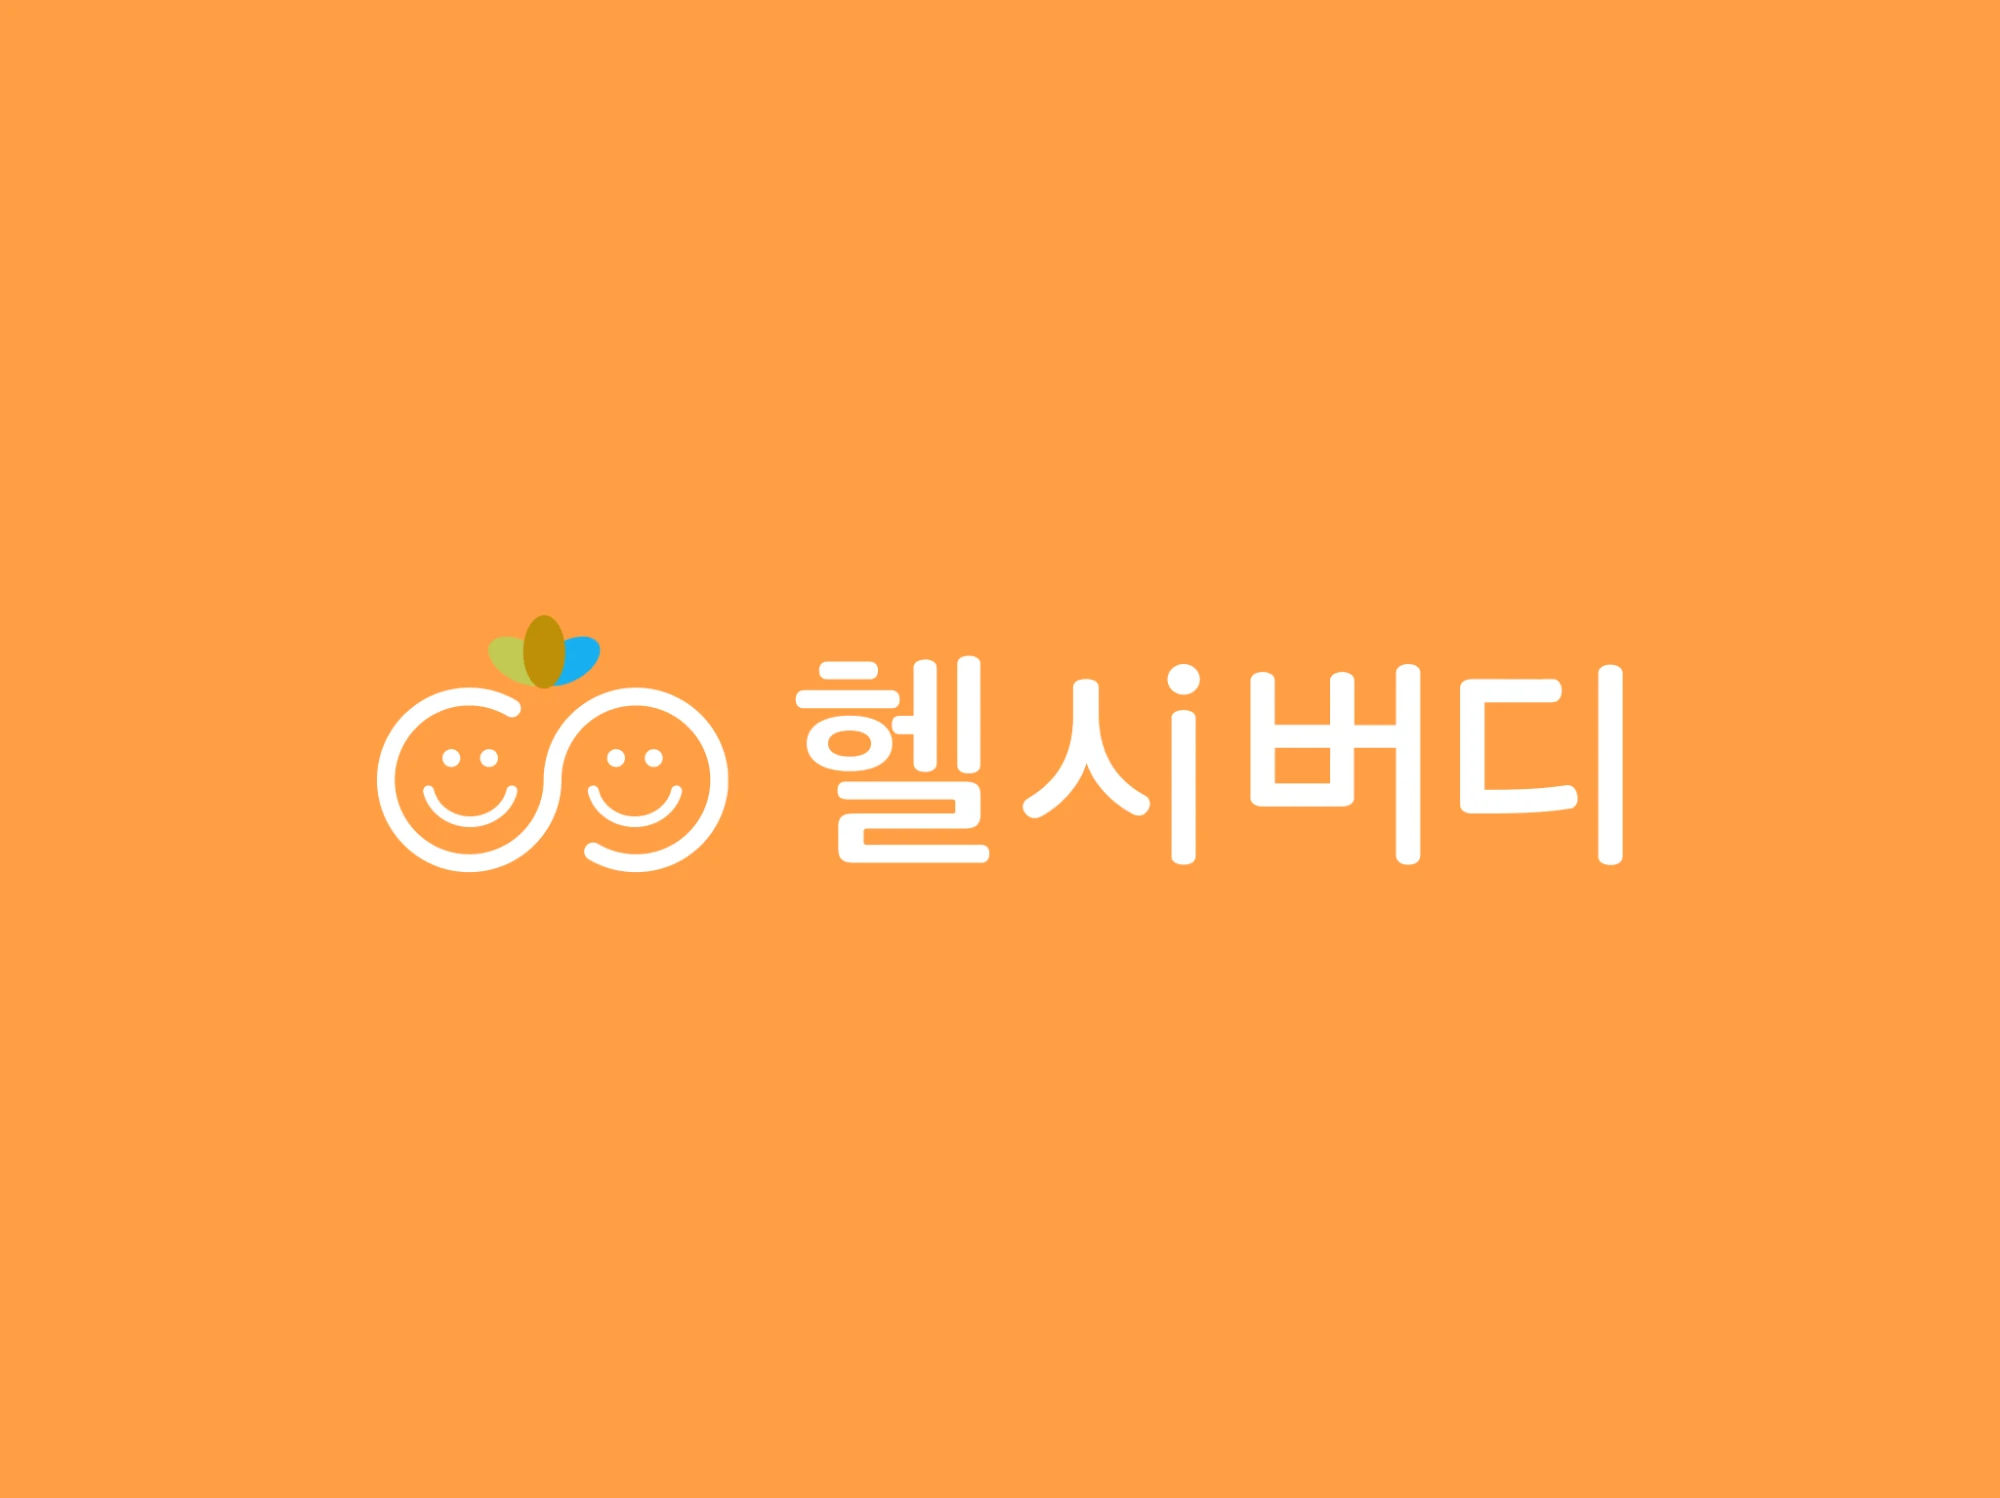
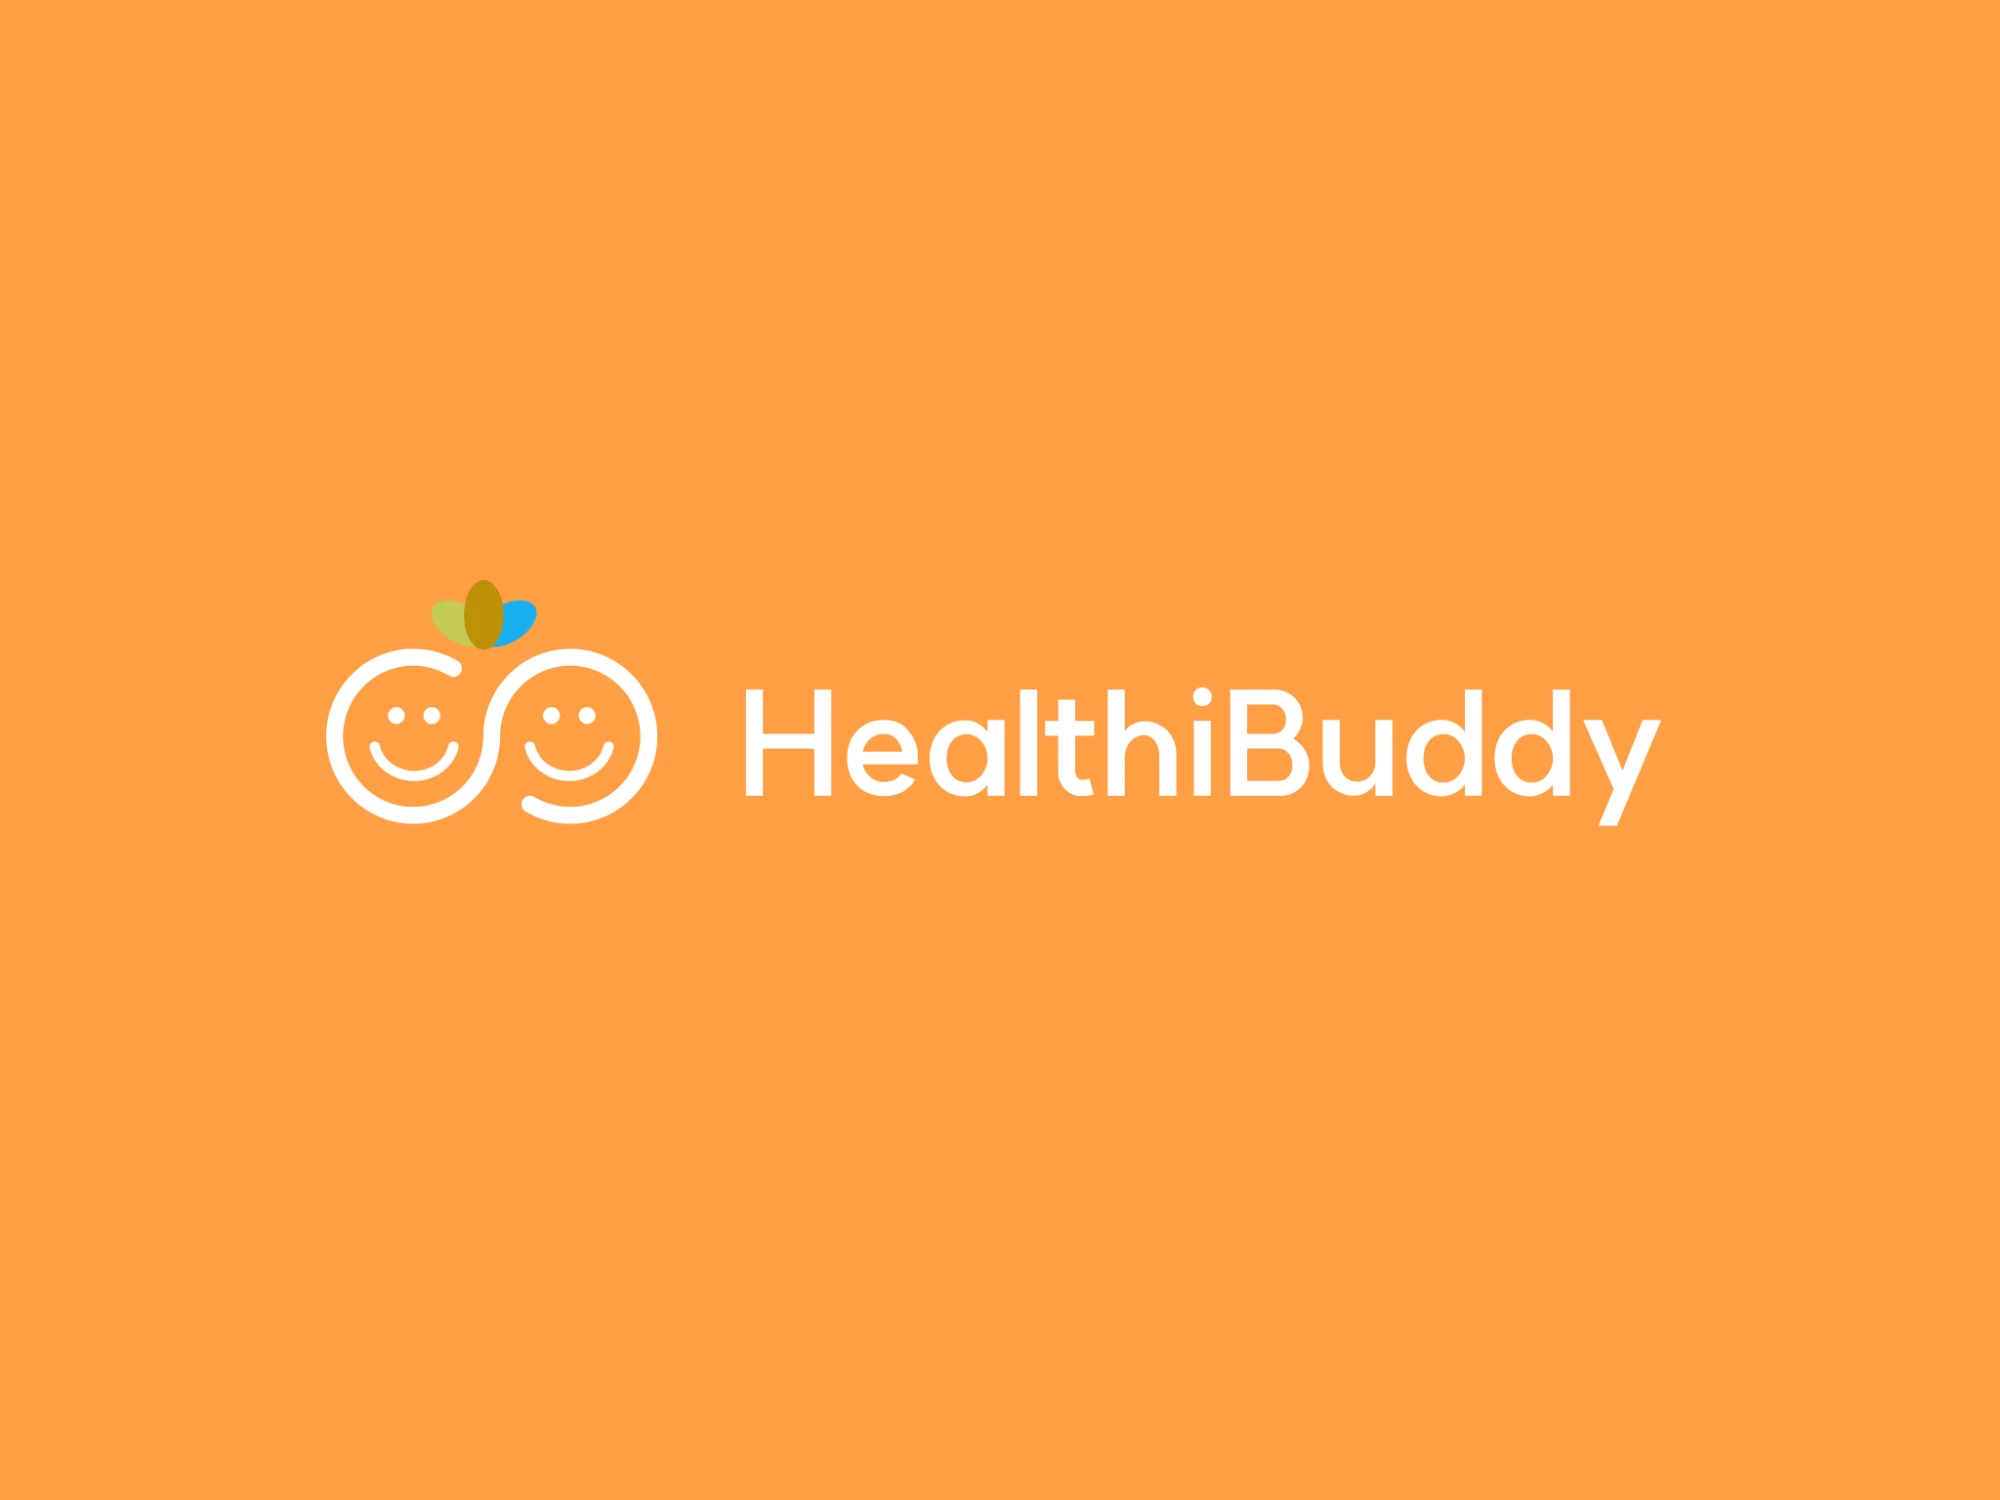
Healthi Buddy 상세 정보·이미지 추가 및 썸네일 교체
- 상세 이미지 5장 추가 (팝업 순서: 모션, 04, 05, 01, 02, 03)
- 연도 2023 - 2024, 태그 App, UI/UX, 설명과 Details 등록
- 상세 설명의 줄바꿈이 보이도록 project-description에 pre-line 적용
- 리스트 썸네일을 영문 로고 이미지로 교체

Changed region(s): [[0.155, 0.3685, 0.837, 0.5834]]

diff --git a/index.html b/index.html
@@ -102,7 +102,7 @@
           </div>
         </div>
         <div class="work-col">
-          <div class="work-card work-card--healthi-thumb" data-category="app" data-year="2022" data-tags="App" data-media='["scene"]' style="height: 240px">
+          <div class="work-card work-card--healthi-thumb" data-category="app" data-year="2023 - 2024" data-tags="App, UI/UX" data-media='["scene","assets/healthi-buddy-detail-04.webp","assets/healthi-buddy-detail-05.webp","assets/healthi-buddy-detail-01.webp","assets/healthi-buddy-detail-02.png","assets/healthi-buddy-detail-03.webp"]' data-description="혈당 관리 앱 Healthy Buddy 서비스 기획 및 UX/UI 디자인&#10;핵심 기능 정의, 사용자 플로우 설계, 정보 구조 및 주요 화면 디자인" data-details='[{"role":"Design, Planning","name":"Jiyeon Park(100%, 30%)"},{"role":"Tools","name":"Figma, Illustrator"}]' style="height: 240px">
             <template class="work-card__scene">
               <div class="hb-scene">
                 <div class="hb-canvas">

diff --git a/styles/style.css b/styles/style.css
@@ -1248,6 +1248,11 @@ a {
   color: var(--color-muted);
 }
 
+/* Line breaks written into a card's data-description (&#10;) are kept. */
+.project-description {
+  white-space: pre-line;
+}
+
 .wm-info-link {
   font-size: 14px;
   text-decoration: underline;
